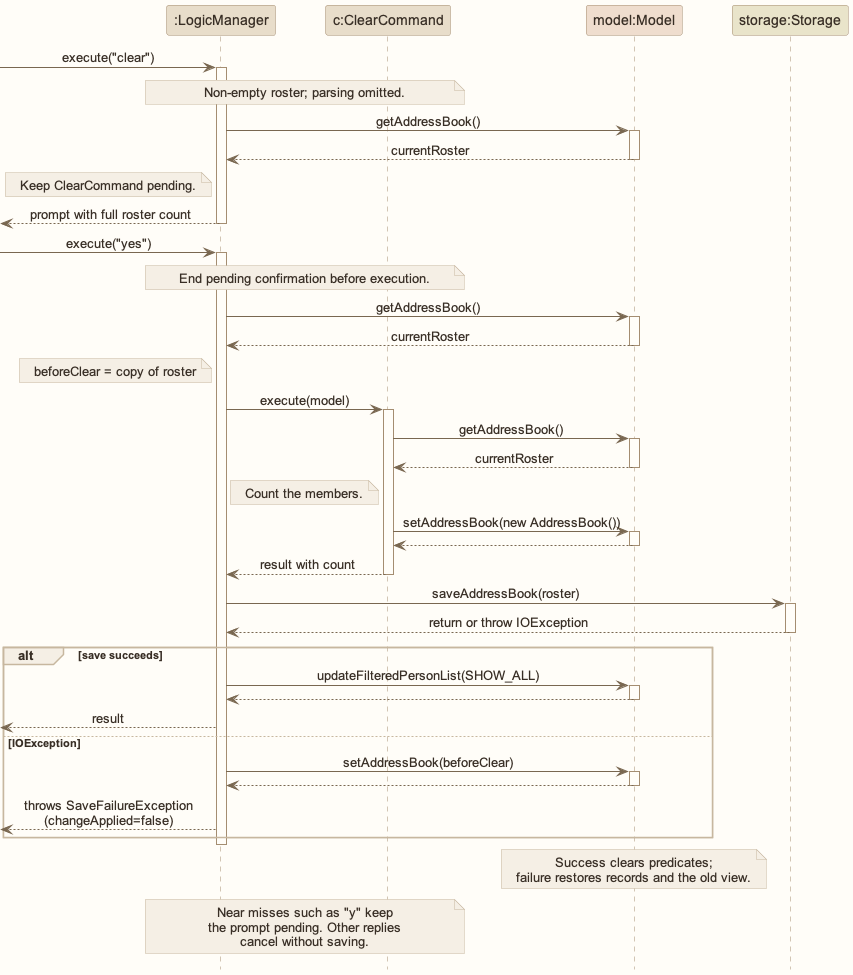
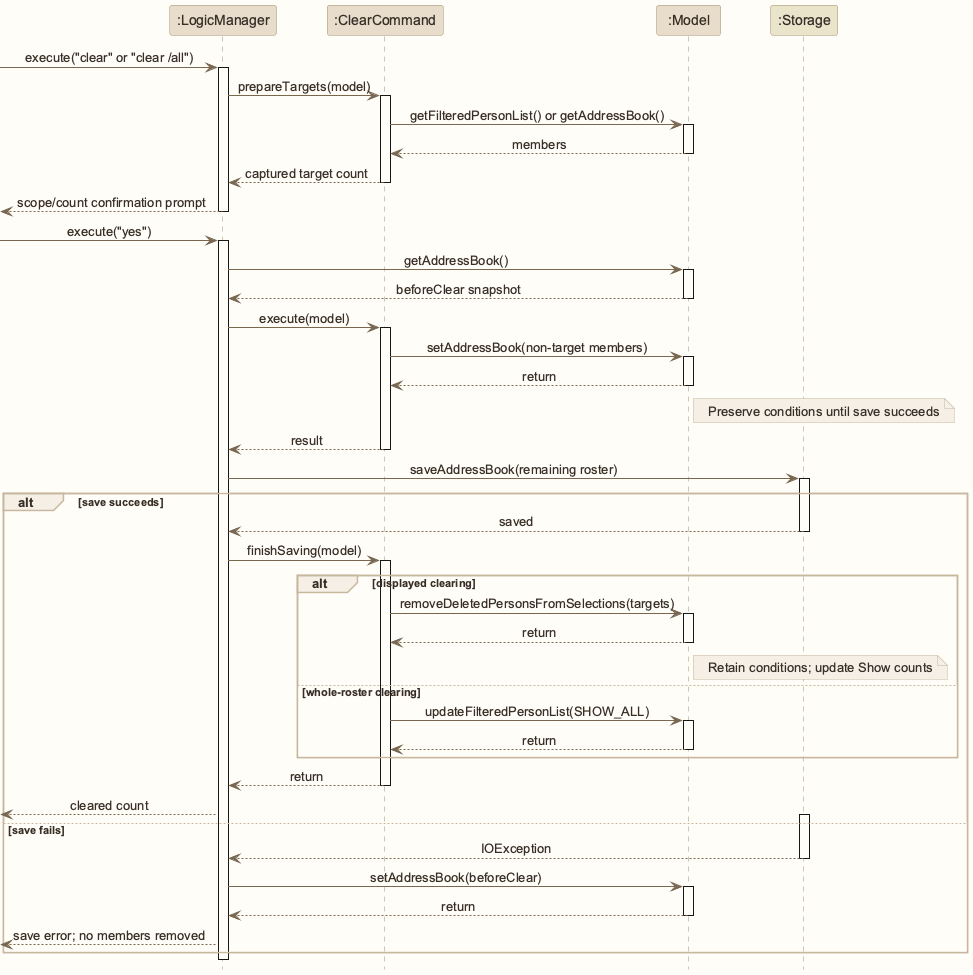
Acknowledge AI and explain scoped clearing
Record the scope of Codex assistance and describe displayed-only clear
and the explicit /all override consistently across the guide. Update
the sequence diagram and manual checks, while identifying the pending
implementation PR so the guide is not published ahead of the feature.

diff --git a/docs/DeveloperGuide.md b/docs/DeveloperGuide.md
@@ -18,6 +18,7 @@ for command syntax and the sections below for implementation decisions and failu
 ## Contents
 
 - [Acknowledgements](#acknowledgements)
+  - [AI-assisted development](#ai-assisted-development)
 - [Feature Map](#feature-map)
 - [Setting Up](#setting-up-getting-started)
 - [Design](#design)
@@ -74,12 +75,25 @@ for command syntax and the sections below for implementation decisions and failu
   [Checkstyle](https://checkstyle.org/), and [JaCoCo](https://www.jacoco.org/jacoco/) support testing and builds.
 
 
+### AI-assisted development {id="ai-assisted-development"}
+
+OpenAI Codex was used to assist Ian's TrackCall contributions, including implementing and refactoring
+Java code, writing regression tests, debugging, addressing PR feedback, resolving merge conflicts,
+rewriting guide sections and generating PlantUML diagram sources. Requests included scoped clearing
+(`clear` and `clear /all`), persistent sorting, validation fixes and coverage improvements.
+
+AI-generated suggestions and outputs were adapted into the project and checked with JUnit, Checkstyle,
+JaCoCo, documentation builds and local-reference checks. This included generated code, tests and prose,
+not only autocomplete. Automated checks provide validation evidence; contributors remain responsible
+for reviewing the work and completing release acceptance.
+
+
 ## Feature Map
 
 | Task | Commands or actions | Implementation |
 | --- | --- | --- |
 | Get help or exit | `help`, `exit` | [Offline help](#1-offline-command-help), [UI](#ui-component) |
-| Restore or reset the roster | `list`, `clear` | [View reset and save rollback](#2-list-and-clear-commands) |
+| Restore or clear members | `list`, `clear`, `clear /all` | [View reset and save rollback](#2-list-and-clear-commands) |
 | Order the displayed members | `sort` | [Name sorting](#3-name-sorting) |
 | Find members | `find`, `findemail` | [Email search](#4-email-search), [model views](#model-component) |
 | Inspect and copy contact details | Select a roster row | [Member details and command messages](#5-member-details-and-command-messages) |
@@ -388,7 +402,7 @@ and navigable associations. Filled diamonds indicate composition.
 
 ### 2. List and clear commands
 
-**Purpose:** restore the complete view with `list`, or remove the complete roster with `clear`.
+**Purpose:** restore the complete view with `list`, remove displayed members with `clear`, or remove everyone with `clear /all`.
 
 <span id="list-behaviour"></span>
 
@@ -402,16 +416,23 @@ and navigable associations. Filled diamonds indicate composition.
 
 **Clear flow**
 
-1. For a non-empty roster, `LogicManager` retains the `ClearCommand` in `pendingConfirmation`
-   and returns a prompt counting all records, including hidden ones. Nothing changes or saves yet.
-2. The next input confirms only if it is exactly `yes` after surrounding whitespace is stripped.
-   A near miss (`y`, `Y`, `YES`) keeps the confirmation pending and repeats the prompt. Any other input
-   cancels and is consumed. If it starts with a command word, the message also says that the input was not
-   run, so the user knows to enter it again. Confirming or cancelling ends the pending confirmation. As with deletion, the full
-   word prevents an accidental clear of the entire roster.
-3. On confirmation, snapshot the roster, then execute `ClearCommand` to install an empty roster.
-   An already-empty roster skips confirmation but still follows the execution and save path.
-4. Retain predicates and sorting until saving finishes. Return success only after saving completes.
+This candidate behavior is implemented in [PR #322](https://github.com/AY2627S1-CS2103T-W12-1/tp/pull/322).
+Merge that implementation before publishing this guide as the current application behavior.
+
+1. `ClearCommandParser` accepts `clear` or exactly `clear /all`; other arguments are rejected.
+2. `prepareTargets(model)` snapshots displayed members for `clear`, or the full roster for `/all`.
+   A nonempty target set prompts with its scope and count. Mention hidden survivors only when present.
+3. Only lowercase `yes` confirms. Near misses retain the original prompt; other input cancels without
+   executing it. Removing a filter while waiting cannot expand the captured target set.
+4. Snapshot the complete roster, then remove only captured targets without changing selection metadata yet.
+5. Save the remaining roster. After a successful displayed clear, retain conditions and remove deleted
+   members from Show selections; an emptied selection remains removable as `Show: 0 selected`.
+   Whole-roster clearing resets conditions. `list` reveals any hidden survivors.
+6. On failure, restore the original records under the original conditions, preserving Show selections.
+   Include the storage failure reason. A fresh `clear` or `clear /all` confirmation is needed to retry.
+
+An empty displayed list with hidden records reports nothing to clear and suggests `list` or `clear /all`,
+without prompting or saving. An already-empty roster keeps the existing immediate-save retry behavior.
 
 <a class="dg-diagram" style="--dg-diagram-width: 65.6923em" href="images/ClearSequenceDiagram.svg" aria-label="Open diagram at full size: Clear save success and rollback"><img src="images/ClearSequenceDiagram.svg" alt="Clear save success and rollback"></a>
 
@@ -419,13 +440,14 @@ and navigable associations. Filled diamonds indicate composition.
 
 | Outcome | Records and view | Command input |
 | --- | --- | --- |
-| Save succeeds | Empty roster; conditions cleared; sorting setting retained. | Clear the input. |
-| Save fails | Restore the snapshot under the original predicates and sorting. | Retain the submitted input; run `clear` again to restart confirmation. |
+| Save succeeds | Remove only targets; displayed clear retains conditions, `/all` resets them. | Clear the input. |
+| Save fails | Restore the snapshot under the original predicates and sorting. | Retain the submitted input; run `clear` or `clear /all` again for the intended scope. |
 
 **Rules and design**
 
 - Clearing a non-empty roster requires confirmation and has no undo. It does not change preferences.
-- Even an empty clear attempts to save, allowing a retry after an unsaved deletion.
+- Clearing an already-empty roster attempts to save, allowing a retry after an unsaved deletion.
+  An empty displayed list with hidden members never saves or removes those members.
 - Keep rollback in Logic because that layer knows the persistence outcome.
 - Atomic roster replacement is separate from backup rotation; see [startup and validation](#startup-and-validation).
 
@@ -433,7 +455,7 @@ and navigable associations. Filled diamonds indicate composition.
 
 `SaveFailureException#isChangeApplied()` lets the command box retain the last submitted input on
 clear rollback while clearing input for changes that remain applied. After a confirmed clear fails,
-the retained input is the answer `yes`; run `clear` again to start a fresh confirmation.
+the retained input is the answer `yes`; choose `clear` or `clear /all` again to start a fresh confirmation.
 
 
 <span id="name-sorting"></span>
@@ -572,12 +594,13 @@ cumulative and repeat-detection rules for names.
 
 | Command | In-memory state | Retry behavior |
 | --- | --- | --- |
-| `clear` | Restore prior records and view. | Resolve the cause before running `clear` again; confirm if prompted. A lone `yes` cannot retry. |
+| `clear`, `clear /all` | Restore prior records and view. | Resolve the cause before repeating the intended scope; confirm if prompted. A lone `yes` cannot retry. |
 | Other data-changing commands | Keep the applied change. | Clear the input to prevent accidental repetition. |
 
 - `SaveFailureException` records whether the change remains applied.
 - `clear` reports its failure message followed by the underlying storage error, including outside-change warnings.
-  If external edits may exist, restart to load them; retry clear only when intentionally replacing them with an empty roster.
+  If external edits may exist, restart to load them; retry clearing only when intentionally replacing the outside
+  version with the remaining in-memory roster. `clear /all` replaces it with an empty roster.
 - The previous roster file is unchanged. Exiting can lose unsaved in-memory changes.
 - After restoring access, inspect the list and use `edit` with an existing value to retry saving.
 - If no records remain, use `clear`. Exit never retries a roster save.
@@ -654,7 +677,7 @@ showing file contents. A missing or null `persons` list also explains the requir
   - **Address:** optional. When present, it must contain a character other than whitespace or Unicode spaces.
 - Tag parsers name unsupported member fields, preambles and missing `t/` prefixes in their diagnostics.
   Invalid tag values receive the specific reason followed by the command usage.
-- `list`, `sort`, `clear` and `exit` take no arguments. Each other command enforces its own grammar.
+- `clear` accepts only an optional `/all`; `list`, `sort` and `exit` take no arguments. Each other command enforces its own grammar.
 
 
 <span id="csv-import"></span>
@@ -770,7 +793,7 @@ Commons CSV handles quoting instead of manual string splitting.
 - Removing a chip removes only that selection. Its count reflects the remaining selected records,
   including those hidden by other conditions. Deleting every selected record leaves a removable
   **Show: 0 selected** chip.
-- `list`, successful `add`/`clear` and valid `import` clear selections.
+- `list`, successful `add`/`clear /all` and valid `import` clear selections; displayed `clear` retains conditions and updates Show counts.
 - Show is read-only and does not save.
 
 
@@ -1097,10 +1120,10 @@ These contracts apply across commands. Feature sections explain their implementa
     Other applied changes remain in memory and can be lost on exit; retry saving with a valid no-op.
     See [saving and recovery](#6-saving-and-recovery) for backup rollback and retry details.
 11. **Add and destructive actions:** add appends a record and clears conditions. Delete retains conditions;
-    successful clear removes hidden records too and clears conditions. Non-empty delete/clear requests
+    `clear` removes displayed records while keeping hidden members and conditions; `clear /all` removes everyone and resets conditions. Non-empty delete/clear requests
     require the next input to be exactly `yes`, to prevent accidental deletion. A near miss such as `y` keeps
     the prompt pending; any other reply cancels and is consumed. Neither action has undo.
-    Empty clear saves immediately. List, sort, clear and exit reject extra arguments.
+    An empty roster still saves immediately. Clear accepts only an optional `/all`; list, sort and exit reject extra arguments.
 12. **Startup and exit:** load the packaged JAR's `data/addressbook.json`; missing data loads samples,
     while a valid empty roster stays empty. Invalid data requires preservation and recovery before editing.
     Normal startup, read-only commands and exit do not save the roster.
@@ -1259,7 +1282,7 @@ Deletion has no undo after confirmation. It removes the underlying record, not j
 
 **MSS**
 
-1. The secretary decides to remove all records and requests clearing the roster.
+1. The secretary decides to remove all records and submits `clear /all`. Plain `clear` targets only displayed members.
 2. TrackCall validates the request and asks for confirmation, counting the whole roster including hidden records.
 3. The secretary confirms by entering `yes`.
 4. TrackCall removes every member, saves the empty roster, clears the search, tag, and selection filters,
@@ -1280,7 +1303,7 @@ Deletion has no undo after confirmation. It removes the underlying record, not j
   leaves the saved file unchanged. It reports that no members were removed. The secretary can
   resolve the storage problem and retry step 1.
 
-Confirmation ends even when saving fails, so a retry must start with `clear` again.
+Confirmation ends even when saving fails, so a retry must start with the appropriate `clear` or `clear /all` command.
 There is no undo after confirmation. Recovery after a successful clear requires a usable backup,
 such as the automatic previous-version backup.
 
@@ -1410,7 +1433,7 @@ Vary the inputs freely; the cases below are starting points that complement the 
 2. Before each independent scenario below, recreate this fixture by entering each command separately:
 
 ```text
-clear
+clear /all
 yes
 add n/Zara Lim p/90000001 e/zara@example.com a/Test Road t/friends
 add n/Bob Lee p/90000002 e/bob@school.edu t/committee
@@ -1418,7 +1441,7 @@ add n/Alice Tan p/90000003 e/alice@example.com a/Main Street t/committee
 ```
 
 **Expected baseline:** three members in stored order: Zara, Bob, Alice. Bob has no address.
-Enter `yes` only when `clear` prompts for confirmation; an already-empty roster needs no answer.
+Enter `yes` only when `clear /all` prompts for confirmation; an already-empty roster needs no answer.
 Use `list` and check the displayed indices before any indexed command. Read-only commands must not change the
 roster file's bytes or timestamp. Back up test files before fault injection.
 
@@ -1511,9 +1534,9 @@ Start each subsection below from the baseline fixture and run its numbered steps
    type `yes` exactly, and nothing is deleted. Enter `yes`. **Expect:** Alice is deleted; `list` shows Zara and Bob.
 3. Try `delete 0`, `delete -1`, a very large integer, and an index beyond the displayed list.
    **Expect:** errors without deletion.
-4. Restore the fixture, run `find Alice`, then `clear`. **Expect:** a prompt counting all three records; nothing
+4. Restore the fixture, run `find Alice`, then `clear /all`. **Expect:** a prompt counting all three records; nothing
    removed or saved yet. Enter `list`. **Expect:** cancellation noting that `list` was not run.
-   Run `clear`, then `y`. **Expect:** the prompt stays pending. Enter `yes`.
+   Run `clear /all`, then `y`. **Expect:** the prompt stays pending. Enter `yes`.
    **Expect:** all three records are removed, including hidden members.
 5. Run `clear` again. **Expect:** the already-empty message after saving, without confirmation.
    `.bak` still holds the previous distinct roster. Confirmed clear has no undo.
@@ -1556,7 +1579,7 @@ this candidate. Record it separately from the nonbreaking-space cases above; rej
    order, with hidden Zara excluded and the view unchanged. Inspect the CSV. **Expect:** the documented UTF-8 header,
    correctly quoted fields, and sorted semicolon-separated tags.
 3. Run `import p/members.csv`. **Expect:** zero imports and two skipped duplicates; filters and sorting reset.
-   Run `clear`, confirm with `yes`, then import again. **Expect:** two imports that persist after restart.
+   Run `clear /all`, confirm with `yes`, then import again. **Expect:** two imports that persist after restart.
    Import Alice's details with a lowercase or repeated-space name. **Expect:** a skipped duplicate, no merged tags.
 4. Copy the CSV to `member list.csv`. **Expect:** `import p/"member list.csv"` works and a missing source fails
    without changes. `export member list.csv`, without quotes, creates a file named exactly that.
@@ -1608,7 +1631,7 @@ Use a fresh fixture and backup for each failure scenario. Restore access before 
    - Restore access, reapply an existing field with `edit`, then restart. **Expect:** the current roster is saved.
 5. Repeat the write failure with `clear` while a filter hides members, confirming with `yes`.
    **Expect:** no members removed, the full roster and previous filtered view restored, and unchanged saved bytes.
-   Restore access, run `clear` again, and confirm. **Expect:** all members removed.
+   Restore access, run `clear` again, and confirm. **Expect:** only displayed targets removed; hidden members remain.
    Repeat with an already-empty roster, which saves without confirmation.
 6. With the app closed, add surrounding whitespace to valid JSON contact and tag fields and a leading UTF-8
    byte-order mark, then restart. **Expect:** loading succeeds with outer whitespace trimmed.
@@ -1637,3 +1660,12 @@ For grouped tag filters, test `filter t/committee t/friends`, then `filter t/yea
 the first box and AND between boxes. Repeat with reordered/case-varied tags: no duplicate box should
 appear. Supply more than four alternatives: the short label must show `+N more`, while the tooltip
 and remove button's accessible text retain the complete list. Removing a group's X removes that group only.
+
+### Displayed clearing and whole-roster override
+
+Restore the fixture and run `filter t/committee`, `clear`, then `yes`. Expect only committee members
+removed, with conditions still applied; `list` reveals the hidden survivors. Restore the fixture and
+repeat using `clear /all`: everyone is removed and conditions reset. Cancel each form and test near misses.
+Remove a filter while a prompt is pending: only the originally captured targets may be removed.
+With an empty result and hidden records, `clear` must not prompt or save; `/all` still prompts for everyone.
+Inject a write failure: restore all records and original Show selections, with unchanged saved bytes.
